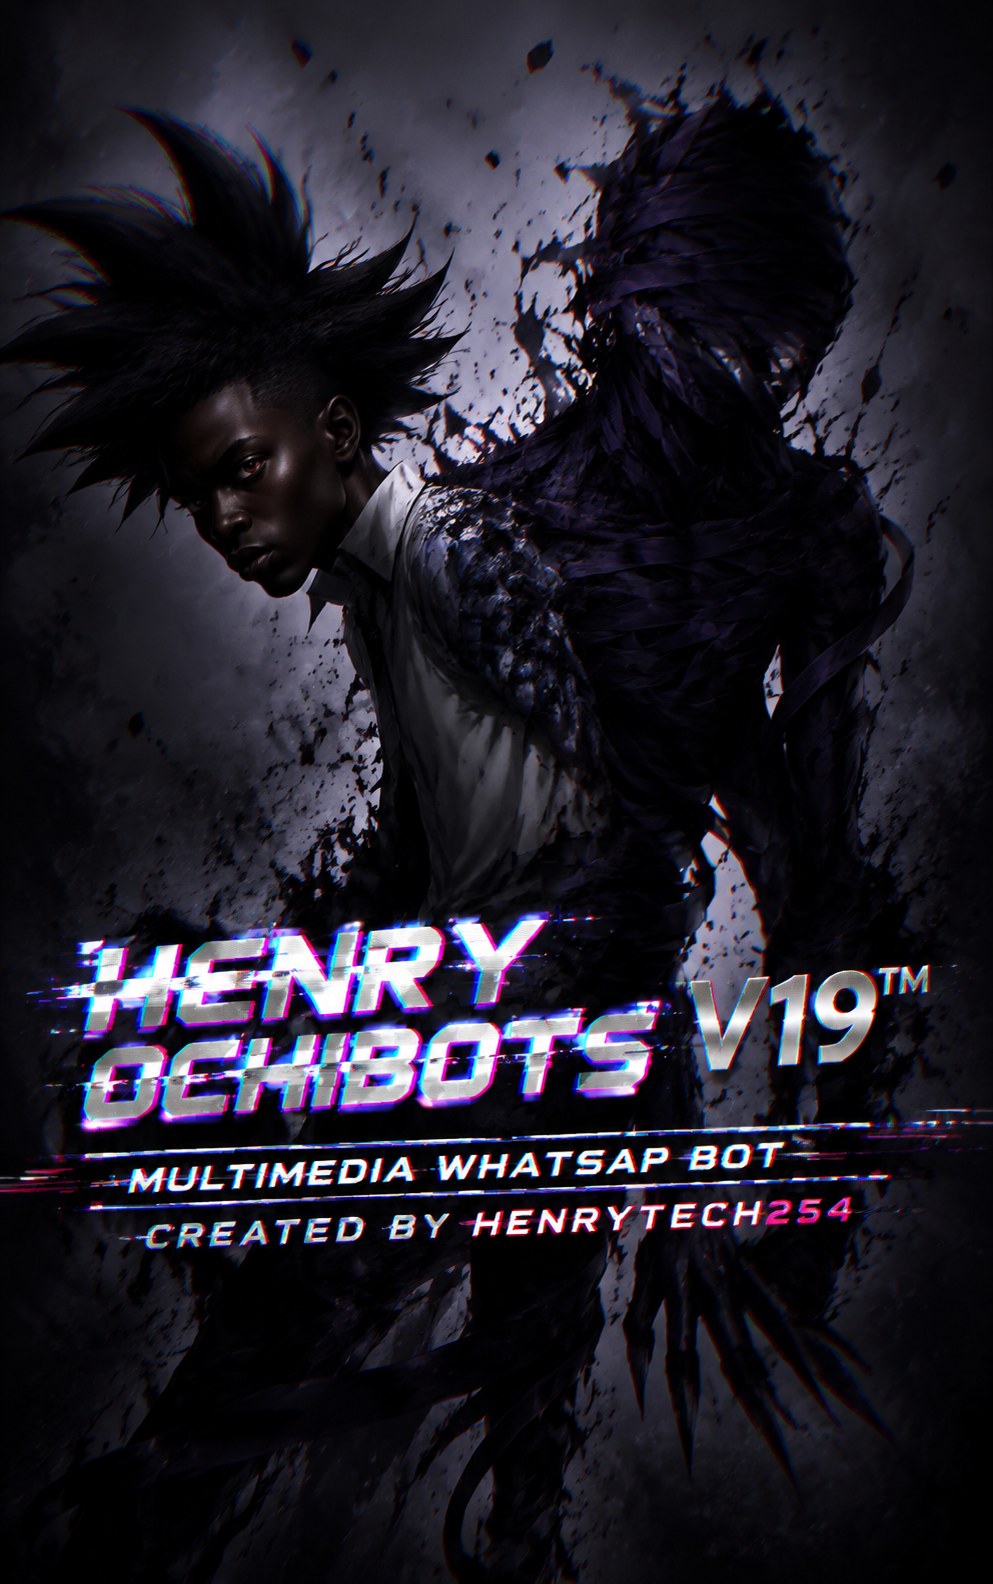
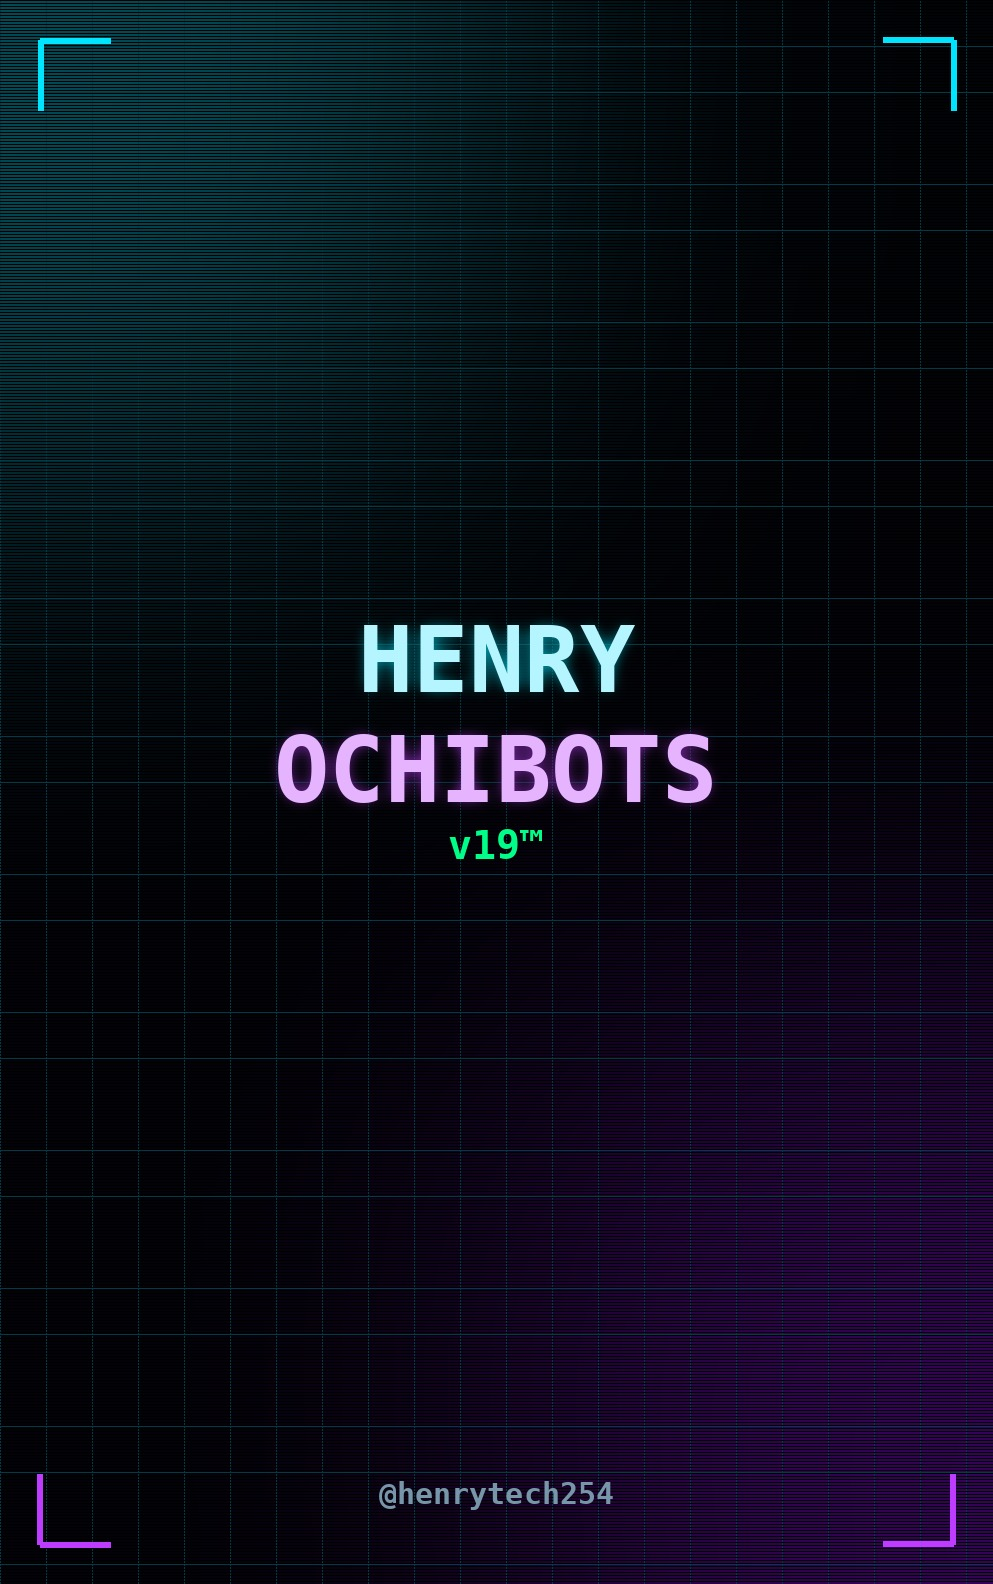
Add admin scheduler/view-once tabs, remove personal photo, update README/menu

diff --git a/admin.html b/admin.html
@@ -197,6 +197,8 @@
       <a href="#" onclick="switchTab('broadcast');closeAdminMenu();return false" style="display:block;padding:12px;border-radius:10px;color:#ccc;text-decoration:none;font-size:14px;background:rgba(255,255,255,.05)">📢 Broadcast</a>
       <a href="#" onclick="switchTab('registrations');closeAdminMenu();return false" style="display:block;padding:12px;border-radius:10px;color:#ccc;text-decoration:none;font-size:14px;background:rgba(255,255,255,.05)">🛡️ Registrations</a>
       <a href="#" onclick="switchTab('payments');closeAdminMenu();return false" style="display:block;padding:12px;border-radius:10px;color:#ccc;text-decoration:none;font-size:14px;background:rgba(255,255,255,.05)">💰 Payments</a>
+      <a href="#" onclick="switchTab('scheduler');closeAdminMenu();return false" style="display:block;padding:12px;border-radius:10px;color:#ccc;text-decoration:none;font-size:14px;background:rgba(255,255,255,.05)">⏰ Scheduler</a>
+      <a href="#" onclick="switchTab('viewonce');closeAdminMenu();return false" style="display:block;padding:12px;border-radius:10px;color:#ccc;text-decoration:none;font-size:14px;background:rgba(255,255,255,.05)">👁️ View-Once</a>
     </div>
   </div>
 
@@ -212,6 +214,8 @@
       <div class="tab" data-tab="broadcast" onclick="switchTab('broadcast')">📢 Broadcast</div>
       <div class="tab" data-tab="registrations" onclick="switchTab('registrations')">🛡️ Registrations</div>
       <div class="tab" data-tab="payments" onclick="switchTab('payments')">💰 Payments</div>
+      <div class="tab" data-tab="scheduler" onclick="switchTab('scheduler')">⏰ Scheduler</div>
+      <div class="tab" data-tab="viewonce" onclick="switchTab('viewonce')">👁️ View-Once</div>
     </div>
 
     <!-- OVERVIEW TAB -->
@@ -222,6 +226,7 @@
         <div class="stat-card"><div class="stat-num" id="stat-messages">0</div><div class="stat-label">Messages Logged</div></div>
         <div class="stat-card"><div class="stat-num" id="stat-messages-today">0</div><div class="stat-label">Messages Today</div></div>
         <div class="stat-card"><div class="stat-num" id="stat-viewonce">0</div><div class="stat-label">View Once Saved</div></div>
+        <div class="stat-card"><div class="stat-num" id="stat-scheduled">0</div><div class="stat-label">Pending Scheduled</div></div>
       </div>
       <div class="form-card">
         <div class="section-title">⏱️ Server Uptime</div>
@@ -354,6 +359,30 @@
       </div>
       <div id="payments-list"><div class="empty">Loading...</div></div>
     </div>
+
+    <!-- SCHEDULER TAB -->
+    <div class="tab-content" id="tab-scheduler">
+      <div class="form-card">
+        <div class="hint">Pending messages queued via the *.schedule* WhatsApp command. Cancel one here instead of needing WhatsApp access.</div>
+      </div>
+      <div class="section-header">
+        <div class="section-title">⏰ Scheduled Messages</div>
+        <button class="refresh-btn" onclick="loadScheduler()">↻ Refresh</button>
+      </div>
+      <div id="scheduler-list"><div class="empty">Loading...</div></div>
+    </div>
+
+    <!-- VIEW-ONCE TAB -->
+    <div class="tab-content" id="tab-viewonce">
+      <div class="form-card">
+        <div class="hint">Media auto-intercepted from view-once messages, most recent first. This is private content from other people's chats — access is logged the same way it would be if you'd checked your own WhatsApp DMs.</div>
+      </div>
+      <div class="section-header">
+        <div class="section-title">👁️ Recent View-Once Media</div>
+        <button class="refresh-btn" onclick="loadViewOnce()">↻ Refresh</button>
+      </div>
+      <div id="viewonce-list"><div class="empty">Loading...</div></div>
+    </div>
   </div>
 </div>
 
@@ -407,6 +436,8 @@
     if (name === "features") loadFeatures();
     if (name === "registrations") loadRegistrations();
     if (name === "payments") loadPayments();
+    if (name === "scheduler") loadScheduler();
+    if (name === "viewonce") loadViewOnce();
   }
 
   function toggleAdminMenu() { document.getElementById('adminMenuOverlay').style.display = 'block'; }
@@ -528,6 +559,82 @@
     }
   }
 
+  /* ── SCHEDULER ── */
+  async function loadScheduler() {
+    const list = document.getElementById('scheduler-list');
+    list.innerHTML = '<div class="empty">Loading...</div>';
+    try {
+      const res = await authedFetch('/admin/scheduler');
+      const data = await res.json();
+      const items = (data.messages || []).filter(m => !m.sent);
+      if (items.length === 0) {
+        list.innerHTML = '<div class="empty">No pending scheduled messages.</div>';
+        return;
+      }
+      list.innerHTML = items.map(m => `
+        <div class="contact-row">
+          <div>
+            <strong>${escapeHtml(m.to || '')}</strong>${m.repeat ? ` <span style="color:var(--muted);font-size:12px">(🔁 ${m.repeat})</span>` : ''}<br/>
+            <span style="color:var(--muted);font-size:12px">${escapeHtml((m.message || '').slice(0, 80))}</span><br/>
+            <span style="color:var(--accent);font-size:12px">⏰ ${m.next_run || 'unknown time'}</span>
+          </div>
+          <button class="btn-sm btn-red" onclick="cancelScheduled('${m.id}')">Cancel</button>
+        </div>
+      `).join('');
+    } catch (e) {
+      list.innerHTML = '<div class="empty">Failed to load.</div>';
+    }
+  }
+
+  async function cancelScheduled(id) {
+    if (!confirm(`Cancel scheduled message ${id}?`)) return;
+    try {
+      const res = await authedFetch(`/admin/scheduler/${encodeURIComponent(id)}`, { method: 'DELETE' });
+      const data = await res.json();
+      if (!data.success) { alert(data.error || 'Failed.'); return; }
+      loadScheduler();
+    } catch (e) {
+      alert('Network error.');
+    }
+  }
+
+  /* ── VIEW-ONCE MEDIA ── */
+  async function loadViewOnce() {
+    const list = document.getElementById('viewonce-list');
+    list.innerHTML = '<div class="empty">Loading...</div>';
+    try {
+      const res = await authedFetch('/admin/viewonce');
+      const data = await res.json();
+      const items = data.items || [];
+      if (items.length === 0) {
+        list.innerHTML = '<div class="empty">Nothing intercepted yet.</div>';
+        return;
+      }
+      list.innerHTML = items.map(v => {
+        const fileUrl = token
+          ? `/admin/viewonce/file/${encodeURIComponent(v.filename)}?pass=${encodeURIComponent(token)}`
+          : `/admin/viewonce/file/${encodeURIComponent(v.filename)}`;
+        const isImage = v.media_type === 'imageMessage';
+        const preview = isImage
+          ? `<img src="${fileUrl}" style="width:56px;height:56px;object-fit:cover;border-radius:8px;border:1px solid var(--border)"/>`
+          : `<div style="width:56px;height:56px;display:flex;align-items:center;justify-content:center;background:var(--card);border-radius:8px;border:1px solid var(--border);font-size:22px">${v.media_type === 'videoMessage' ? '🎥' : '🎙️'}</div>`;
+        return `
+        <div class="contact-row">
+          <div style="display:flex;gap:12px;align-items:center">
+            ${preview}
+            <div>
+              <strong>${escapeHtml(v.name || 'Unknown')}</strong> — ${escapeHtml(v.sender || '')}<br/>
+              <span style="color:var(--muted);font-size:12px">${v.time}${v.caption ? ' · ' + escapeHtml(v.caption.slice(0, 40)) : ''}</span>
+            </div>
+          </div>
+          <a href="${fileUrl}" target="_blank" class="btn-sm" style="background:var(--border);color:var(--text);text-decoration:none;display:inline-block">Open</a>
+        </div>`;
+      }).join('');
+    } catch (e) {
+      list.innerHTML = '<div class="empty">Failed to load.</div>';
+    }
+  }
+
   /* ── KEYWORDS ── */
   async function loadKeywords() {
     const list = document.getElementById('keywords-list');
@@ -636,6 +743,7 @@
       document.getElementById("stat-messages").textContent = stats.messages || 0;
       document.getElementById("stat-messages-today").textContent = stats.messages_today || 0;
       document.getElementById("stat-viewonce").textContent = stats.viewonce || 0;
+      document.getElementById("stat-scheduled").textContent = stats.scheduled_pending || 0;
       document.getElementById("server-time").textContent = stats.server_time || "";
 
       const sessionsEl = document.getElementById("sessions-list");

diff --git a/app.py b/app.py
@@ -916,6 +916,8 @@ async def admin_stats():
             messages = (await c.fetchone())[0]
         async with db.execute("SELECT COUNT(*) FROM viewonce_media") as c:
             viewonce = (await c.fetchone())[0]
+        async with db.execute("SELECT COUNT(*) FROM scheduled_messages WHERE sent = 0") as c:
+            scheduled_pending = (await c.fetchone())[0]
         async with db.execute(
             "SELECT name, sender, timestamp FROM contacts ORDER BY timestamp DESC LIMIT 20"
         ) as c:
@@ -962,6 +964,7 @@ async def admin_stats():
         "messages": messages,
         "messages_today": messages_today,
         "viewonce": viewonce,
+        "scheduled_pending": scheduled_pending,
         "session_list": session_list,
         "recent_contacts": recent_contacts,
         "server_time": time.strftime("%d %b %Y, %H:%M:%S", time.localtime()),
@@ -1543,6 +1546,80 @@ async def scheduler_save():
             )
         await db.commit()
     return jsonify({"status": "saved", "count": len(messages)})
+
+
[email redacted]("/admin/scheduler", methods=["GET"])
+async def admin_scheduler():
+    """Admin panel view of pending scheduled messages (the .schedule command).
+    Read-only mirror of the scheduled_messages table client_bridge.js persists to."""
+    if not _check_admin_auth(request):
+        return jsonify({"error": "Unauthorized"}), 401
+    async with aiosqlite.connect(DB_FILE) as db:
+        async with db.execute(
+            "SELECT id, to_jid, message, next_run, repeat, sent, created_by FROM scheduled_messages ORDER BY next_run ASC"
+        ) as c:
+            rows = await c.fetchall()
+    return jsonify({
+        "messages": [
+            {
+                "id": r[0], "to": r[1], "message": r[2],
+                "next_run": time.strftime("%d %b %Y, %H:%M", time.localtime(r[3])) if r[3] else None,
+                "repeat": r[4], "sent": bool(r[5]), "created_by": r[6],
+            }
+            for r in rows
+        ]
+    })
+
+
[email redacted]("/admin/scheduler/<msg_id>", methods=["DELETE"])
+async def admin_scheduler_delete(msg_id):
+    """Lets the admin cancel a scheduled message from the panel instead of
+    needing WhatsApp access to run .schedule del."""
+    if not _check_admin_auth(request):
+        return jsonify({"error": "Unauthorized"}), 401
+    async with aiosqlite.connect(DB_FILE) as db:
+        await db.execute("DELETE FROM scheduled_messages WHERE id = ?", (msg_id,))
+        await db.commit()
+    return jsonify({"success": True})
+
+
[email redacted]("/admin/viewonce", methods=["GET"])
+async def admin_viewonce():
+    """Browse recently intercepted view-once media from the admin panel,
+    instead of digging through the bot's own WhatsApp DMs for it."""
+    if not _check_admin_auth(request):
+        return jsonify({"error": "Unauthorized"}), 401
+    async with aiosqlite.connect(DB_FILE) as db:
+        async with db.execute(
+            "SELECT id, sender, name, filename, media_type, caption, timestamp FROM viewonce_media ORDER BY timestamp DESC LIMIT 50"
+        ) as c:
+            rows = await c.fetchall()
+    return jsonify({
+        "items": [
+            {
+                "id": r[0], "sender": r[1], "name": r[2], "filename": r[3],
+                "media_type": r[4], "caption": r[5],
+                "time": time.strftime("%d %b %Y, %H:%M", time.localtime(r[6])),
+            }
+            for r in rows
+        ]
+    })
+
+
[email redacted]("/admin/viewonce/file/<path:filename>", methods=["GET"])
+async def admin_viewonce_file(filename):
+    """Serves the actual saved view-once file. Gated behind admin auth for
+    the same reason payment screenshots are — this is private content
+    intercepted from other people's chats, not public static assets.
+    Path is sanitized to the basename so this can't be used to read
+    arbitrary files elsewhere on disk."""
+    if not _check_admin_auth(request):
+        return jsonify({"error": "Unauthorized"}), 401
+    safe_name = Path(filename).name  # strip any directory traversal attempt
+    file_path = DATA_DIR / "viewonce_media" / safe_name
+    if not file_path.exists():
+        return jsonify({"error": "File not found"}), 404
+    return Response(file_path.read_bytes(), mimetype="application/octet-stream")
 
 
 @app.route("/bot/features", methods=["GET"])

diff --git a/README.md b/README.md
@@ -7,6 +7,14 @@
 
 ## 🩹 Recent fixes
 
+- **🖼️ Personal photo removed from `.menu` and the landing page** — `assets/menu-bg.jpg` used to be a personal photo; it's now a generated neon/cyberpunk banner instead, so nothing personal ships in the public repo image.
+- **🆕 `.share <number>` added** — reply to any message (text or media) with `.share <number>` to forward it to that number, without re-typing or re-uploading anything.
+- **🐛 Group AI trigger tightened** — it used to fire on any message containing the plain word "bot" anywhere ("I saw a robot," "chatbot," anyone named Henry in the group, etc.), spamming AI replies into groups. Now it only replies on an `@mention` or a direct reply to one of the bot's own messages.
+- **💾 Scheduler now survives restarts** — `.schedule` used to store everything in memory only, so a redeploy silently dropped every pending scheduled message. It's now backed by the SQLite DB and reloaded automatically on boot.
+- **💾 Persistent data directory (`DATA_DIR`)** — the SQLite DB, WhatsApp auth sessions, saved view-once media, and payment proof screenshots now all live under one shared, configurable `DATA_DIR` instead of scattered relative paths. `render.yaml` mounts a 1GB persistent disk at `/app/data` so this actually survives redeploys, not just process restarts — see `.env.example` for the Railway equivalent (add a Volume in the dashboard).
+- **🗑️ Removed the dead `henry19v/` folder** — a full second, unused bot codebase (its own `index.js`, `lib/`, `plugins/`) that nothing in `Dockerfile`/`render.yaml`/`railway.json` ever referenced. Pure leftover from an earlier merge — deleted to avoid confusion about which copy is live.
+- **⏰ New admin panel tab: Scheduler** — view every pending `.schedule`d message and cancel one directly from `/admin`, no WhatsApp access needed.
+- **👁️ New admin panel tab: View-Once Media** — browse recently intercepted view-once photos/videos/audio from `/admin` instead of digging through the bot's own WhatsApp DMs. Gated behind the same `ADMIN_PASSWORD` auth as everything else, since this is private content from other people's chats.
 - **🏷️ Brand name unified to "Henry Ochibots v19™" everywhere** — leftover text from earlier dev iterations ("Shark Bot," "Beast Bot," "Henry Tech V5.0," "Henry Bots©") was still showing up in the bot's rotating WhatsApp bio, startup console banners/logs, and a few command replies (`.addadmin`, `.listadmins`, `.runtime`). All scrubbed to one consistent name. Also removed a dead, never-called old-branded welcome template that was sitting unused in the backend.
 - **🐛 `.menu` was silently rendering dead duplicate text** — the menu builder had `publicSection` and `subAdminSection` variables that were fully written out (including `.checklink` and the `/recover`/`/viewonce` privacy notes) but never actually inserted into the message that gets sent — the live menu had its own separate, never-updated copy instead. Fixed by editing the actual live menu text directly and deleting the dead variables so this can't silently regress again.
 - **📸 `.getpp` now works for any number, no exceptions** — it used to hard-reject a number if WhatsApp's `onWhatsApp()` lookup couldn't confirm it (which can false-negative on numbers with tighter privacy settings). Now it always attempts the profile picture fetch regardless of what the lookup says, and if it fails, the error message folds in the same blocked-vs-private heuristic as `.checkblocked` so you know right away whether it looks like a block or just no photo set.
@@ -70,6 +78,10 @@
 | 🚫 Anti-Link | Deletes links posted by non-admins in groups, warns, kicks after 3 strikes |
 | 🔘 Tappable Menu | `.menu` includes quick-reply buttons (Ping/Runtime/My Perms) alongside the full text menu — buttons fall back silently if WhatsApp doesn't render them for that client |
 | 🌟 Web Panel Registration | Self-serve `/register` page — WhatsApp OTP verification unlocks starter credits + a trust badge, manageable from the admin panel |
+| 📤 Share/Forward | `.share <number>` — reply to any message to forward it (text or media) to another number |
+| ⏰ Scheduler Admin View | `/admin → Scheduler` — view & cancel any pending `.schedule`d message without WhatsApp access |
+| 👁️ View-Once Admin Browser | `/admin → View-Once` — browse recently intercepted view-once media from the panel |
+| 💾 Persistent Storage | DB, WhatsApp sessions, and saved media all live under a configurable `DATA_DIR`, survivable across redeploys with a mounted disk |
 
 ---
 
@@ -108,6 +120,7 @@
 | `.vv` | Reply to voice note to re-send as audio |
 | `.save` | Reply to video/image to save it |
 | `.getpp [@user]` | Get someone's profile picture — works for any number, even unsaved/private ones, and tells you if it looks blocked |
+| `.share <number>` | Reply to any message (text or media) to forward it to that number |
 | `.about [@user]` | Get someone's WhatsApp About status text (works even unsaved) |
 | `.download [url]` | Download video (YT/TikTok/IG) |
 | `.song [url]` | Extract MP3 audio from video URL |
@@ -179,7 +192,9 @@ Replies to every plain message in DMs — detects language automatically and res
 ### Group Replies
 Replies in groups when someone:
 - **Mentions** the bot (`@bot`)
-- **Calls its name** — says "henry", "ochibots", or "bot" in the message
+- **Replies directly** to one of the bot's own messages
+
+(No longer triggers on the word "bot"/"henry" appearing anywhere in a message — that used to cause false triggers on unrelated chat.)
 
 Replies are short and casual, like a real group member.
 
@@ -350,8 +365,11 @@ Expiry status (active/expired countdown) is checked automatically every 30 secon
 | `OWNER_RECOVERY_SECRET` | Your secret recovery passphrase |
 | `CO_OWNERS` | Comma-separated numbers for co-owners (optional) |
 | `SUB_ADMINS` | Comma-separated numbers for sub-admins (optional) |
+| `DATA_DIR` | Where the DB, sessions & media live — `render.yaml` already sets this to `/app/data` and mounts a persistent disk there for you |
 
 4. Visit `your-app.onrender.com/pair` to link your WhatsApp number
+
+> ⚠️ **Railway users:** `railway.json` doesn't declare a disk the way `render.yaml` does. Add a **Volume** in your Railway service settings, mount it at e.g. `/app/data`, and set `DATA_DIR` to that same path — otherwise every redeploy wipes your WhatsApp session, DB, and scheduled messages, and you'll have to re-pair from scratch.
 
 ---
 
@@ -370,6 +388,8 @@ Expiry status (active/expired countdown) is checked automatically every 30 secon
 - `.login` is rate-limited to 3 failed attempts per number per 10 minutes
 - `.login` usage hint never reveals the real username/password — change credentials via `BOT_LOGIN_USER` / `BOT_LOGIN_PASS` env vars
 - `.getpp` and `.about` work even for numbers not saved in contacts (verified via WhatsApp lookup where possible). `.getpp` no longer hard-rejects numbers WhatsApp's lookup can't confirm (privacy settings can cause false negatives) — it always attempts the fetch, and folds in the same heuristic as `.checkblocked` into the error message if it fails, so you immediately see whether it looks like a block vs. just no photo/private settings
+- `/admin → View-Once` and its underlying file endpoint (`/admin/viewonce/file/<name>`) require `ADMIN_PASSWORD` just like every other `/admin/*` data route — this serves private media intercepted from other people's chats, not public assets. The filename is sanitized to its basename server-side so it can't be used for path traversal.
+- `.share` only forwards content the requester can already see (something in a chat the bot is in) — it doesn't grant access to anything the requester couldn't otherwise reach
 
 ---
 